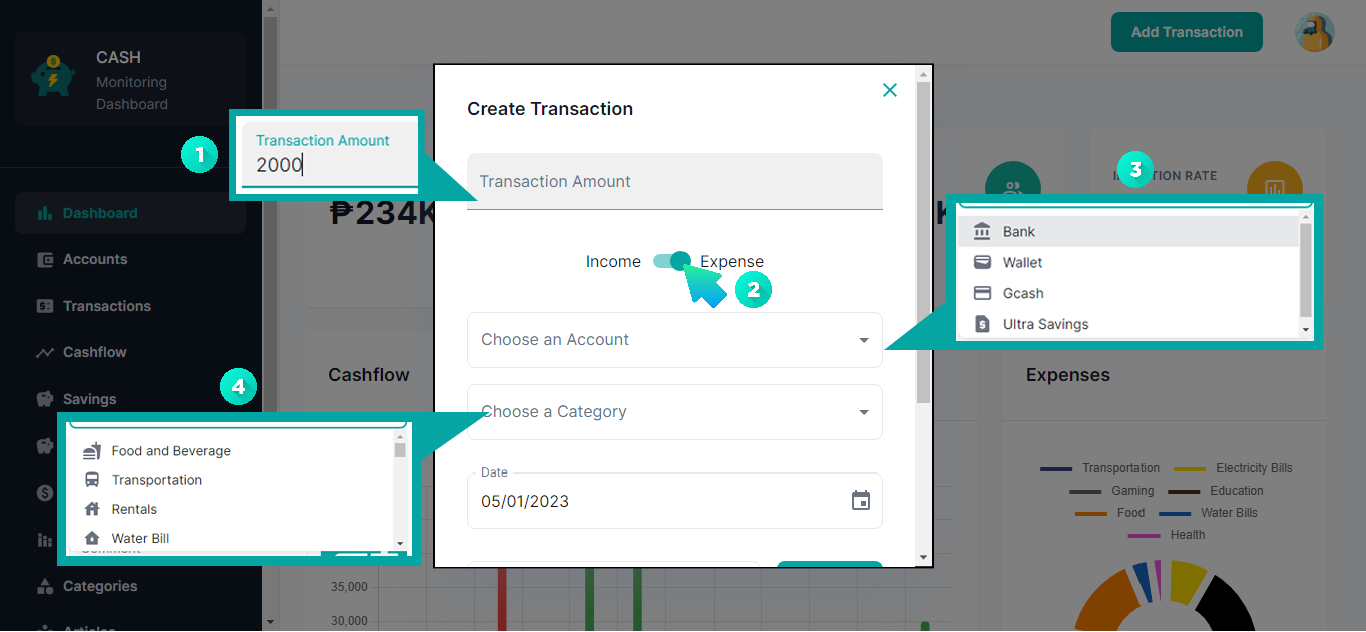
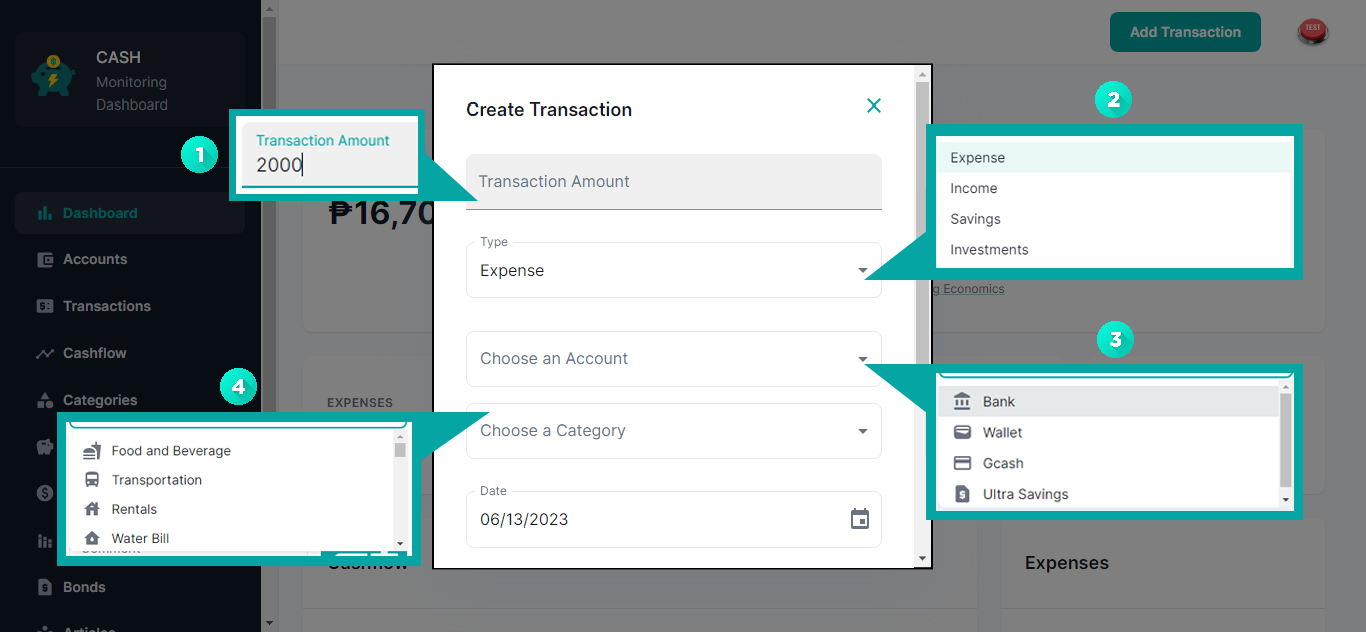
fix: tutorial, articles

diff --git a/src/data/articles.js b/src/data/articles.js
@@ -177,6 +177,110 @@ const articles = [
         articleTags: ["Bonds"],
         id: uuidv4(),
     },
+    {
+        articleTitle: "Bond laddering",
+        articleAuthor: "EARNEST",
+        articleLink: "https://earnest.ph/life/bond-laddering",
+        articleImage: "/static/images/articles/bonds.jpg",
+        articleTags: ["Bonds"],
+        id: uuidv4(),
+    },
+    {
+        articleTitle: "5 Rules to Improve Your Financial Health",
+        articleAuthor: "Jean Folger",
+        articleLink: "https://www.investopedia.com/articles/personal-finance/111813/five-rules-improve-your-financial-health.asp",
+        articleImage: "/static/images/articles/general.jpg",
+        articleTags: ["General"],
+        id: uuidv4(),
+    },
+    {
+        articleTitle: "5 Rules to Improve Your Financial Health",
+        articleAuthor: "Jean Folger",
+        articleLink: "https://www.investopedia.com/articles/personal-finance/111813/five-rules-improve-your-financial-health.asp",
+        articleImage: "/static/images/articles/general.jpg",
+        articleTags: ["General"],
+        id: uuidv4(),
+    },
+    {
+        articleTitle: "The Best Retirement Plans to Build Your Nest Egg",
+        articleAuthor: "Denise Appleby",
+        articleLink: "https://www.investopedia.com/articles/retirement/08/best-plan.asp",
+        articleImage: "/static/images/articles/savings.jpg",
+        articleTags: ["Savings"],
+        id: uuidv4(),
+    },
+    {
+        articleTitle: "The Beauty of Budgeting",
+        articleAuthor: "Investopedia",
+        articleLink: "https://www.investopedia.com/articles/pf/06/budgeting.asp",
+        articleImage: "/static/images/articles/general.jpg",
+        articleTags: ["General"],
+        id: uuidv4(),
+    },
+    {
+        articleTitle: "Financial Literacy: What It Is, and Why It Is So Important",
+        articleAuthor: "Jason Fernando",
+        articleLink: "https://www.investopedia.com/terms/f/financial-literacy.asp",
+        articleImage: "/static/images/articles/general.jpg",
+        articleTags: ["General"],
+        id: uuidv4(),
+    },
+    {
+        articleTitle: "How COVID-19 Changed Our Saving and Spending Habits",
+        articleAuthor: "Catherine Tymkiw",
+        articleLink: "https://www.investopedia.com/how-covid-19-changed-our-saving-and-spending-habits-5184327",
+        articleImage: "/static/images/articles/general.jpg",
+        articleTags: ["General", "Savings"],
+        id: uuidv4(),
+    },
+    {
+        articleTitle: "Investments: An Important Income Source for People with Disabilities",
+        articleAuthor: "Jean Folger",
+        articleLink: "https://www.investopedia.com/investments-an-important-income-source-for-people-with-disabilities-5097365",
+        articleImage: "/static/images/articles/investments.jpg",
+        articleTags: ["Investments"],
+        id: uuidv4(),
+    },
+    {
+        articleTitle: "Top 10 Most Common Financial Mistakes",
+        articleAuthor: "Emily Norris",
+        articleLink: "https://www.investopedia.com/personal-finance/most-common-financial-mistakes/",
+        articleImage: "/static/images/articles/general.jpg",
+        articleTags: ["General"],
+        id: uuidv4(),
+    },
+    {
+        articleTitle: "How to Set Financial Goals for Your Future",
+        articleAuthor: "Amy Fontinelle",
+        articleLink: "https://www.investopedia.com/articles/personal-finance/100516/setting-financial-goals/",
+        articleImage: "/static/images/articles/general.jpg",
+        articleTags: ["General"],
+        id: uuidv4(),
+    },
+    {
+        articleTitle: "The Basics of Financial Responsibility",
+        articleAuthor: "Lisa Smith",
+        articleLink: "https://www.investopedia.com/articles/pf/09/financial-responsibility.asp",
+        articleImage: "/static/images/articles/general.jpg",
+        articleTags: ["General"],
+        id: uuidv4(),
+    },
+    {
+        articleTitle: "Government Bond: What It Is, Types, Pros and Cons",
+        articleAuthor: "James Chen",
+        articleLink: "https://www.investopedia.com/terms/g/government-bond.asp",
+        articleImage: "/static/images/articles/bonds.jpg",
+        articleTags: ["Bonds"],
+        id: uuidv4(),
+    },
+    {
+        articleTitle: "Understanding Treasury Yields and Interest Rates",
+        articleAuthor: "David Harper",
+        articleLink: "https://www.investopedia.com/articles/03/122203.asp",
+        articleImage: "/static/images/articles/bonds.jpg",
+        articleTags: ["Bonds"],
+        id: uuidv4(),
+    },
 ]
 
 export default articles;

diff --git a/src/components/tour.js b/src/components/tour.js
@@ -95,7 +95,7 @@ export default function Tour({ open, handleClose, handleOpen }) {
             target: '.app__carousel',
             content: (
                 <Typography variant='body2'>
-                    Fill the Amount field (1). Select if Income or Expense (2). Select an Account (3). Select a Category
+                    Fill the Amount field (1). Select Transaction Type (2). Select an Account (3). Select a Category
                     (4).
                 </Typography>
             ),
